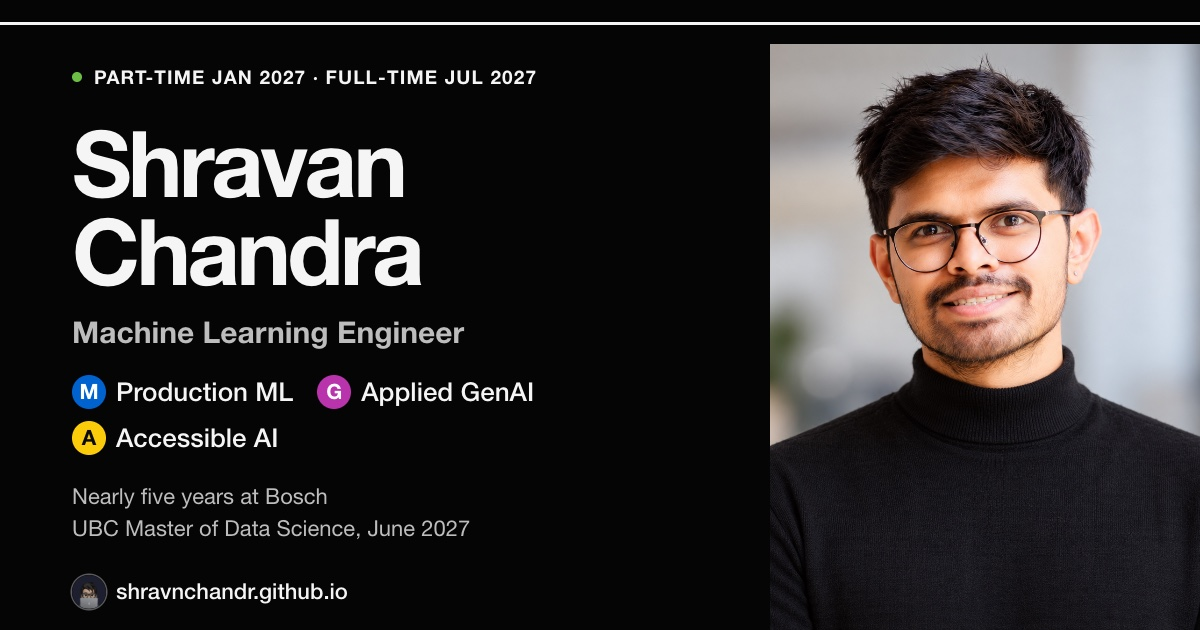
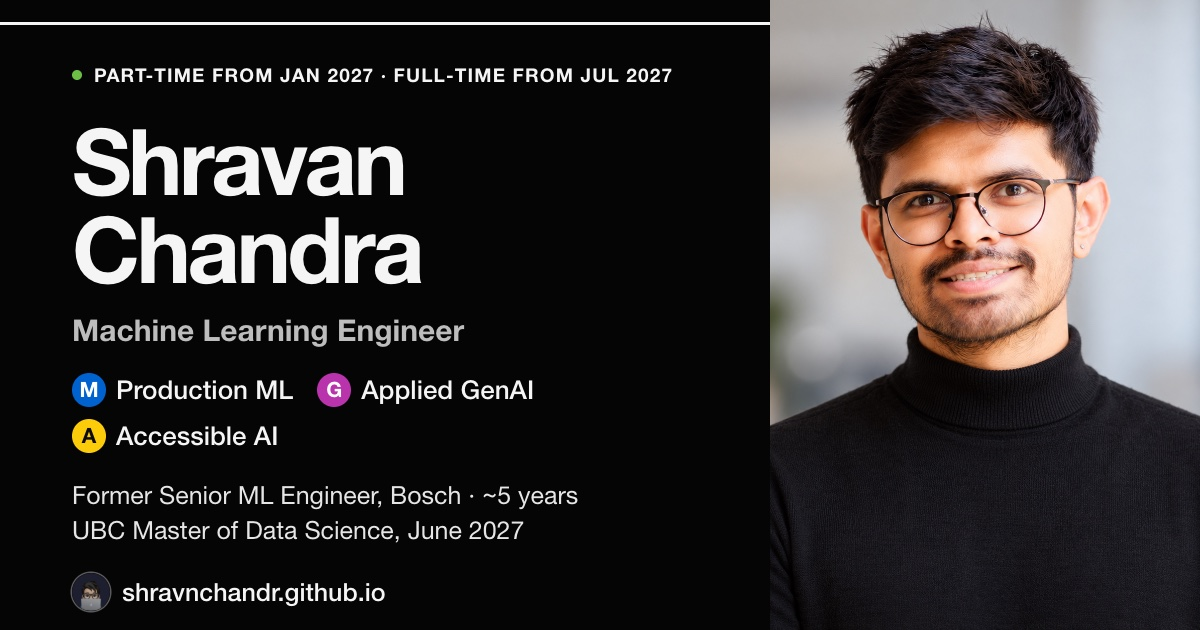
social card: own link title, seniority line, readable footer, full-bleed photo
- og:title / twitter:title: "Shravan Chandra — ML Engineer, open to roles
  from January 2027" (no longer repeats the image); <title> unchanged
- "Former Senior ML Engineer, Bosch · ~5 years" instead of "Nearly five
  years at Bosch"
- Bottom lines brighter and larger, readable at feed size (~half scale)
- Status: "PART-TIME FROM JAN 2027 · FULL-TIME FROM JUL 2027", as the hero
- Photo bleeds off the top edge too; image URL ?v=3

diff --git a/dev/social-card.html b/dev/social-card.html
@@ -4,10 +4,10 @@
 :root { --bg:#050505; --text:#f5f5f5; --dim:#bdbdbd; --sign:"Helvetica Neue", Helvetica, Arial, sans-serif; }
 * { margin:0; padding:0; box-sizing:border-box; }
 body { width:1200px; height:630px; background:var(--bg); color:var(--text); font-family:var(--sign); overflow:hidden; position:relative; -webkit-font-smoothing:antialiased; }
-body::before { content:""; position:absolute; left:0; right:0; top:22px; height:3px; background:var(--text); z-index:1; }   /* the sign's white rule */
+body::before { content:""; position:absolute; left:0; right:430px; top:22px; height:3px; background:var(--text); }   /* the sign's white rule, up to the photo */   /* the sign's white rule */
 
-/* Photo: a hard-edged panel on the right — no fade */
-.photo { position:absolute; right:0; top:44px; bottom:0; width:430px; background:url('../link_preview.png') center 18%/cover no-repeat; }
+/* Photo: a hard-edged panel bleeding off the top, right and bottom edges — no fade */
+.photo { position:absolute; right:0; top:0; bottom:0; width:430px; background:url('../link_preview.png') center 18%/cover no-repeat; }
 
 .bullet { display:inline-grid; place-items:center; flex:none; width:var(--b,40px); height:var(--b,40px); border-radius:50%;
           font-weight:700; font-size:calc(var(--b,40px)*.62); line-height:1; background:var(--c); color:var(--on); }
@@ -21,13 +21,13 @@ h1 { font-size:92px; line-height:.95; font-weight:700; letter-spacing:-.04em; }
 .routes { margin-top:24px; display:flex; flex-wrap:wrap; gap:12px 24px; }
 .route { display:flex; align-items:center; gap:10px; font-size:26px; font-weight:500; }
 .route .bullet { --b:34px; }
-.desc { margin-top:26px; font-size:22px; color:var(--dim); line-height:1.45; }
-.url { margin-top:30px; display:flex; align-items:center; gap:10px; font-size:22px; font-weight:500; color:var(--text); }
-.url .avatar { width:34px; height:34px; border-radius:50%; object-fit:cover; box-shadow:0 0 0 1.5px #5a5a5a; }   /* memoji, as in the site logo; ring because its background is near-black */
+.desc { margin-top:24px; font-size:25px; color:#e6e6e6; line-height:1.4; }
+.url { margin-top:26px; display:flex; align-items:center; gap:12px; font-size:25px; font-weight:500; color:var(--text); }
+.url .avatar { width:38px; height:38px; border-radius:50%; object-fit:cover; box-shadow:0 0 0 1.5px #5a5a5a; }   /* memoji, as in the site logo; ring because its background is near-black */
 </style></head><body>
 <div class="photo"></div>
 <div class="text">
-  <div class="status"><i></i>PART-TIME JAN 2027 · FULL-TIME JUL 2027</div>
+  <div class="status"><i></i>PART-TIME FROM JAN 2027 · FULL-TIME FROM JUL 2027</div>
   <h1>Shravan<br>Chandra</h1>
   <div class="role">Machine Learning Engineer</div>
   <div class="routes">
@@ -35,6 +35,6 @@ h1 { font-size:92px; line-height:.95; font-weight:700; letter-spacing:-.04em; }
     <span class="route"><span class="bullet purple">G</span>Applied GenAI</span>
     <span class="route"><span class="bullet yellow">A</span>Accessible AI</span>
   </div>
-  <div class="desc">Nearly five years at Bosch<br>UBC Master of Data Science, June 2027</div>
+  <div class="desc">Former Senior ML Engineer, Bosch · ~5 years<br>UBC Master of Data Science, June 2027</div>
   <div class="url"><img class="avatar" src="../memoji-128.jpg" alt="">shravnchandr.github.io</div>
 </div></body></html>

diff --git a/index.html b/index.html
@@ -11,16 +11,16 @@
     <!-- Open Graph -->
     <meta property="og:type"        content="website">
     <meta property="og:url"         content="https://shravnchandr.github.io/">
-    <meta property="og:title"       content="Shravan Chandra | Machine Learning Engineer · Production ML &amp; Applied GenAI">
+    <meta property="og:title"       content="Shravan Chandra — ML Engineer, open to roles from January 2027">
     <meta property="og:description" content="Machine Learning Engineer · Production ML &amp; Applied GenAI. Nearly five years at Bosch; UBC MDS, June 2027.">
-    <meta property="og:image"       content="https://shravnchandr.github.io/social-card.jpg?v=2">
+    <meta property="og:image"       content="https://shravnchandr.github.io/social-card.jpg?v=3">
     <meta property="og:image:width"  content="1200">
     <meta property="og:image:height" content="630">
     <meta property="og:image:alt"    content="Shravan Chandra — Machine Learning Engineer · Production ML &amp; Applied GenAI">
     <meta name="twitter:card"        content="summary_large_image">
-    <meta name="twitter:title"       content="Shravan Chandra | Machine Learning Engineer · Production ML &amp; Applied GenAI">
+    <meta name="twitter:title"       content="Shravan Chandra — ML Engineer, open to roles from January 2027">
     <meta name="twitter:description" content="Machine Learning Engineer · Production ML &amp; Applied GenAI. Nearly five years at Bosch; UBC MDS, June 2027.">
-    <meta name="twitter:image"       content="https://shravnchandr.github.io/social-card.jpg?v=2">
+    <meta name="twitter:image"       content="https://shravnchandr.github.io/social-card.jpg?v=3">
 
     <link rel="icon" type="image/svg+xml" href="/favicon.svg">
     <link rel="apple-touch-icon" href="/apple-touch-icon.png">
